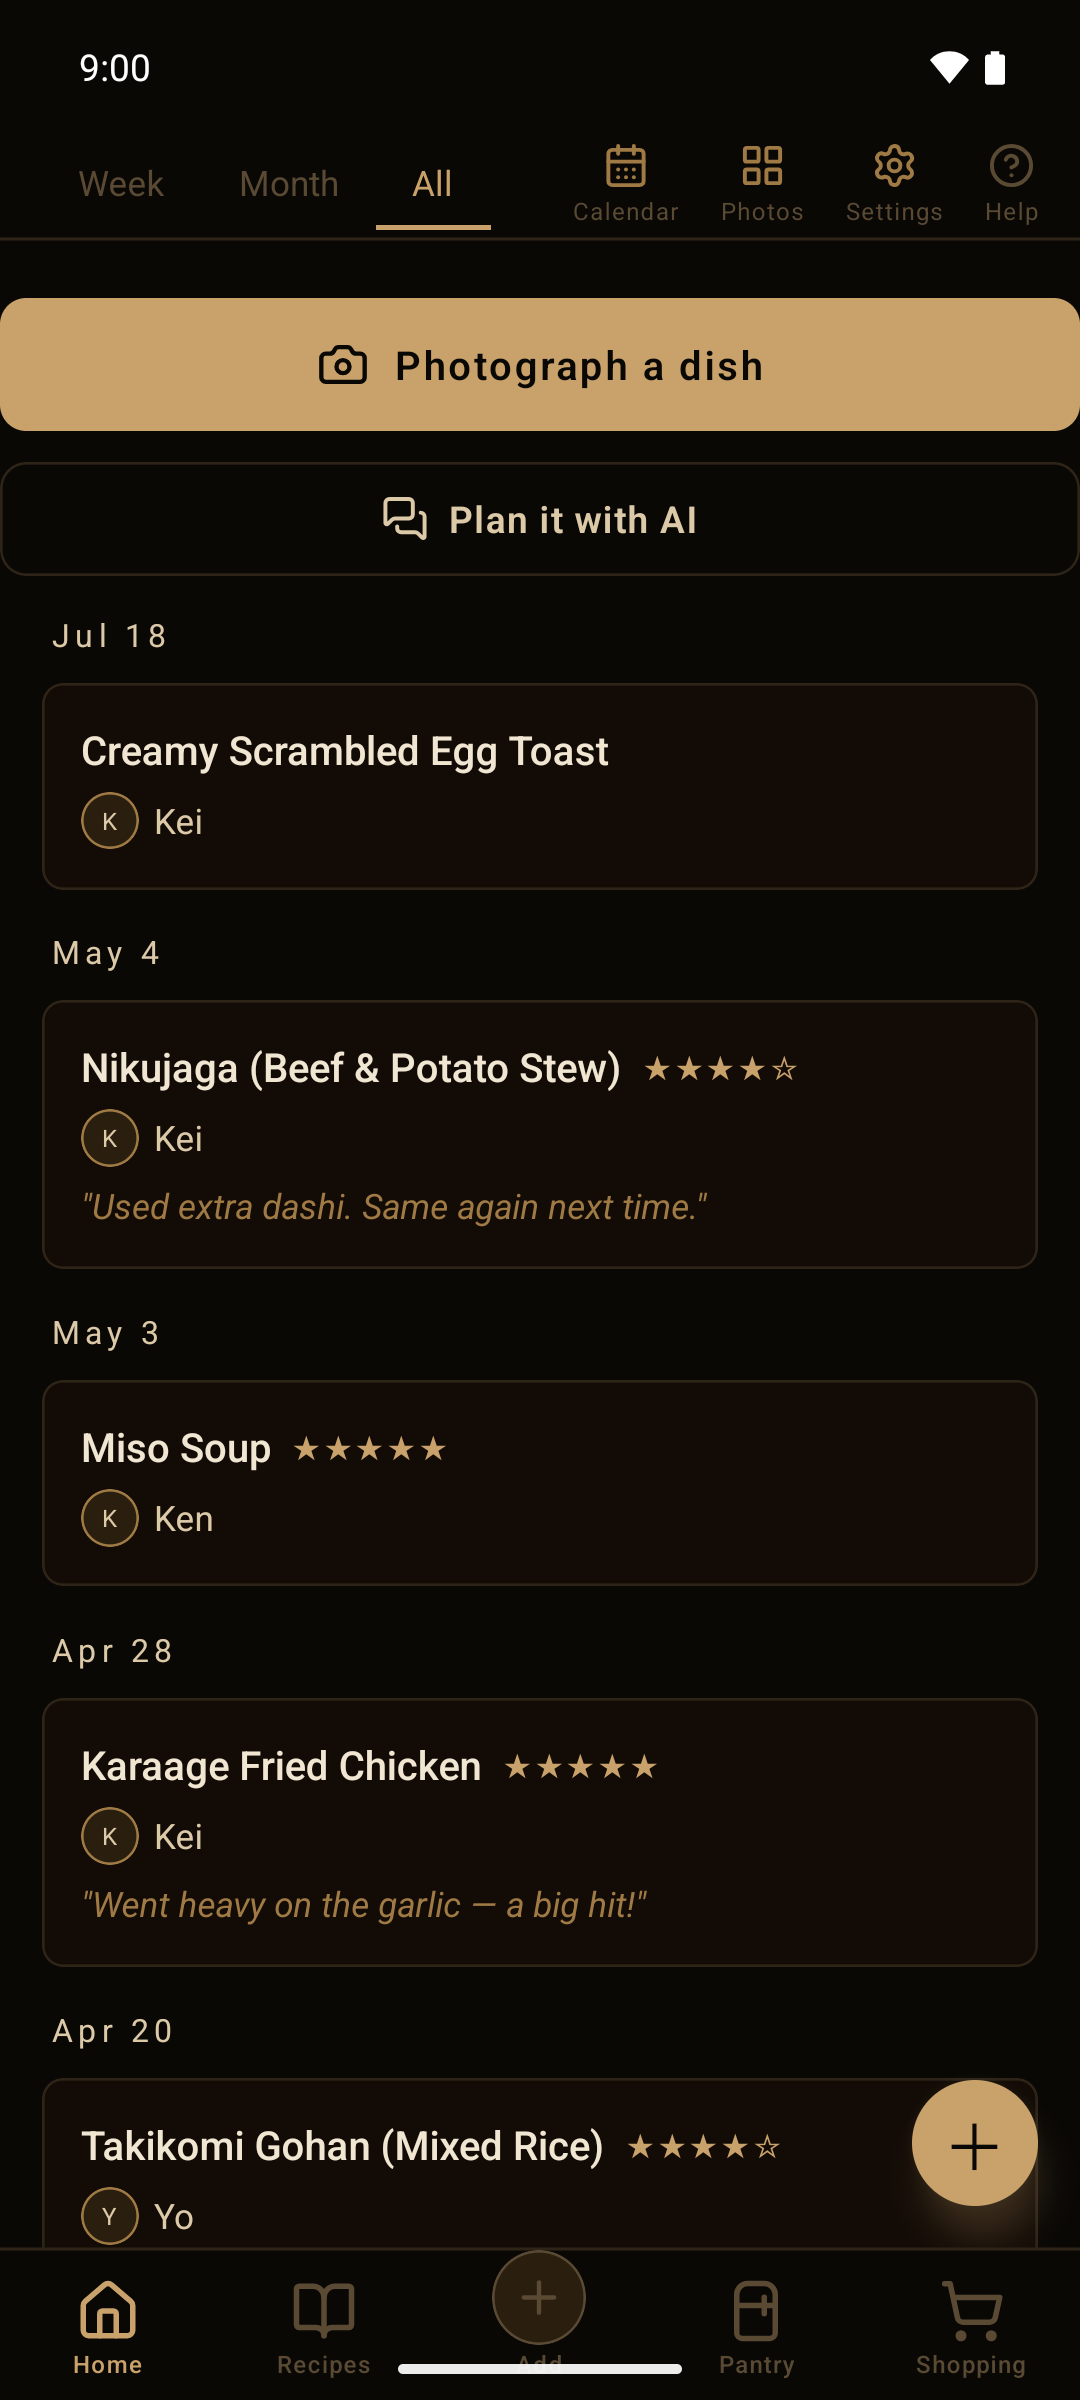
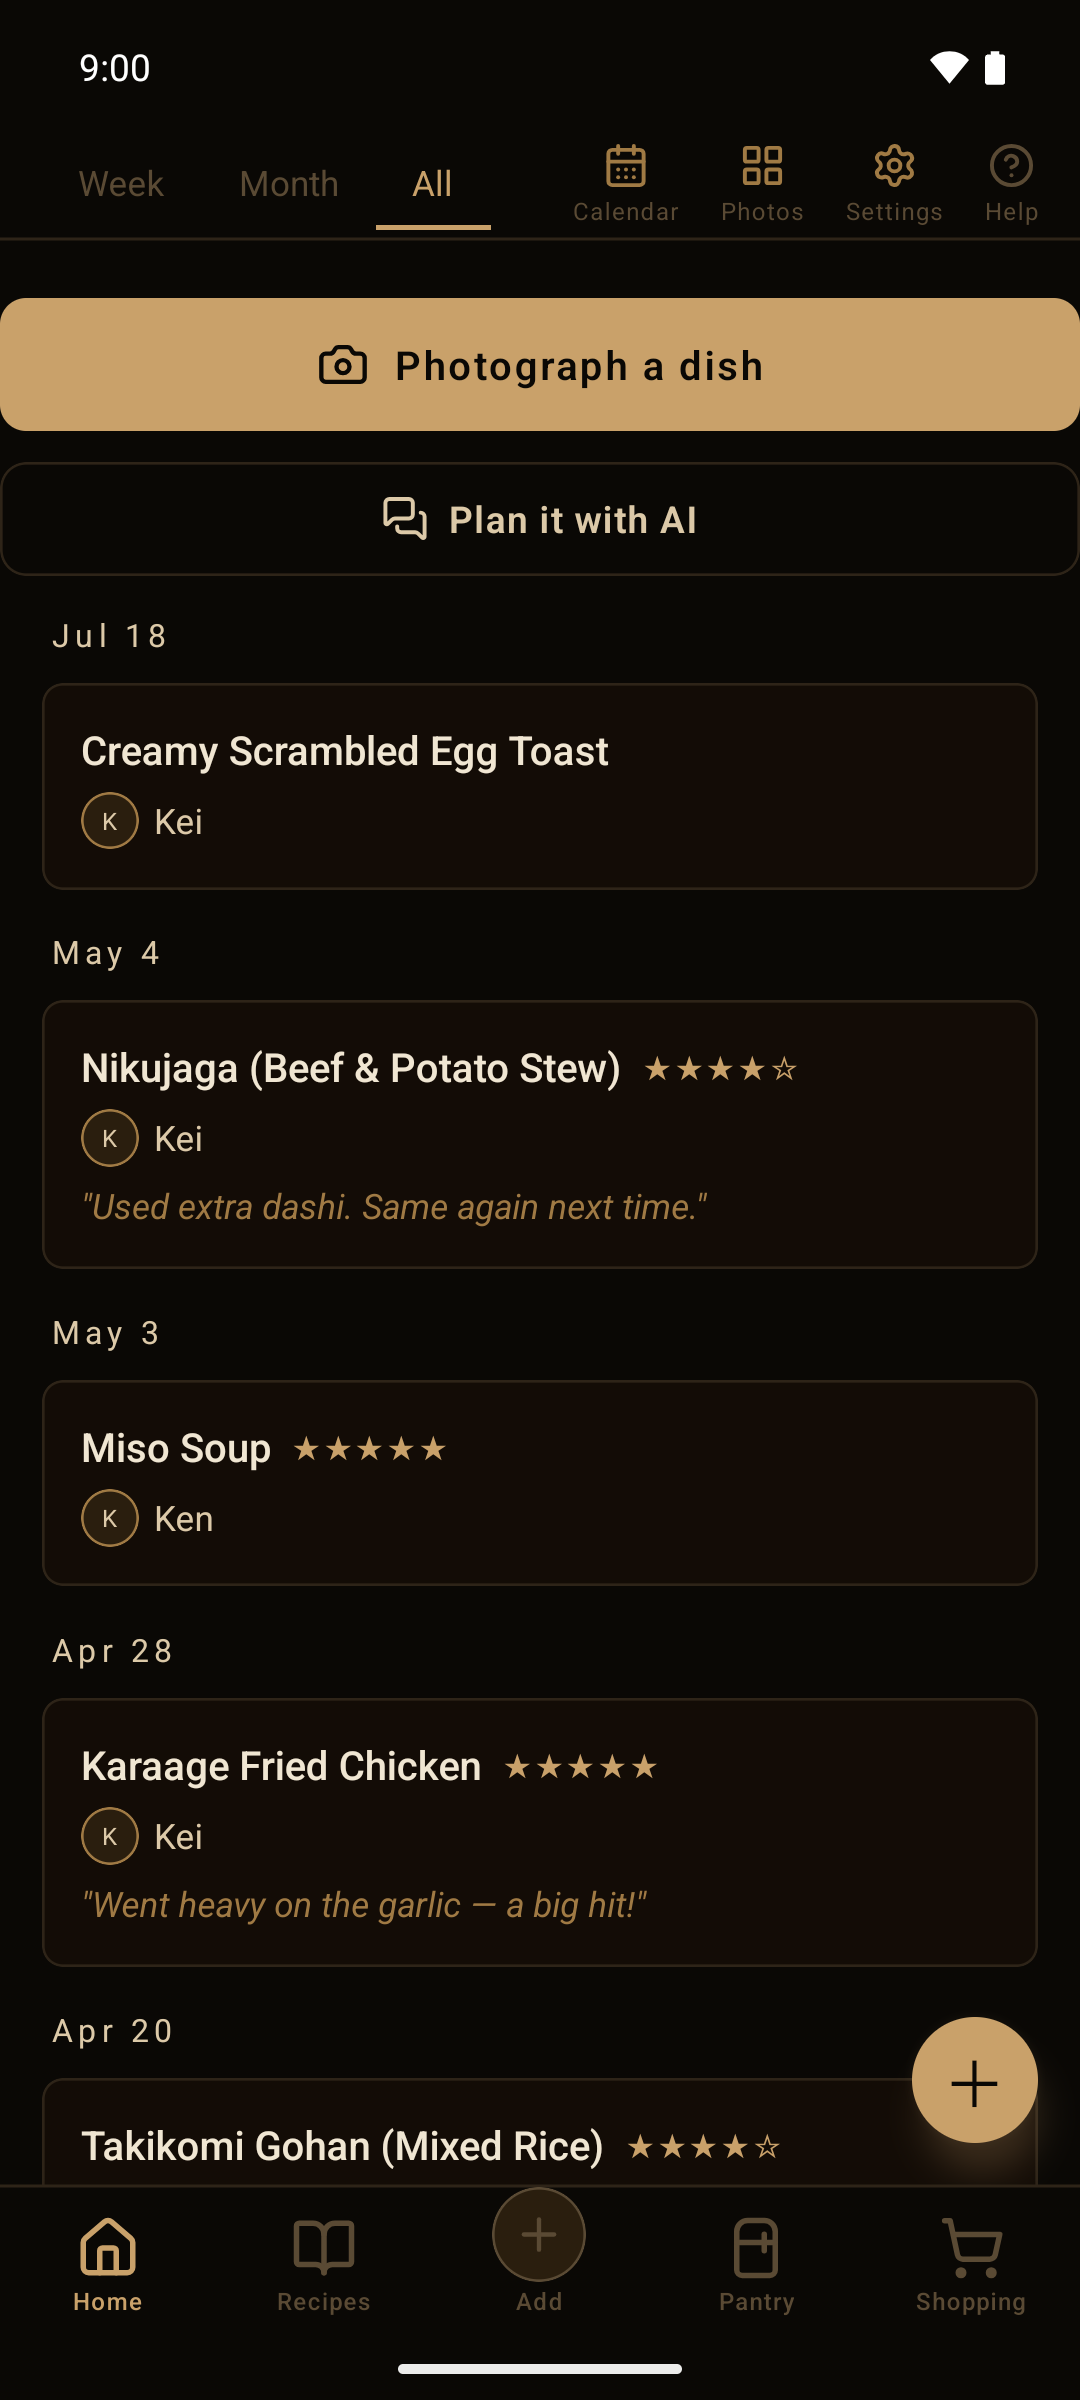
chore(store): 英語スクショ 6 枚をタブバー修正後（1.12.2）で撮り直す
1.12.1 まではタブバーが下の safe-area を確保しておらず、公開中の掲載画像に
**ジェスチャーバーの白い横棒が `Add` を横切り、`Recipes` / `Pantry` / `Shopping` の
ディセンダが切れている状態**が写っていた（PR #244 で修正）。

撮り直したのは**タブバーが写る 6 枚**（`01` `02` `03` `04` `06` `10`）。
`07` は `FULLSCREEN_CHILD_ROUTES` で撮影画面のタブバーを隠すため、`08` はモーダルのため、
どちらもタブバーが無いので 1.12.1 のまま維持した。

エミュレータ `daidoko_e2e_fresh_api36`（1080x2400・wipe 済み・versionCode 10032）。
全 8 枚が 1080x2400 で揃っていることを `--dry-run` で確認済み。

**踏んだこと:** wipe 直後は既定の待ち 7 秒では足りず、`01` `02` がローディングの
スピナーのまま撮れていた。`--wait 18000` で通った。**PNG のサイズが見分けになる**
（中身のある `01` は 191KB、スピナーだけだと 21KB）。README に残した。

日本語版の README には、撮り直すときに要ること（どの画面がどの料理か・実データの作り方・
エミュレータだと解像度が変わるので 8 枚とも撮り直しになること）を書いた。

diff --git a/docs/store/google-play/phone-screenshots-en/README.md b/docs/store/google-play/phone-screenshots-en/README.md
@@ -15,11 +15,25 @@ node scripts/release/capture-store-screenshots.mjs \
   一度きりなので、**データを消した端末に入れてから**撮ること（`-wipe-data` でエミュを起動し直す）
 - 反映: `node scripts/release/update-play-screenshots.mjs --lang en-US`（下表の順に upload）
 
-## 現在の中身（2026-08-27 更新・1.12.1 / versionCode 10031）
+## 現在の中身（2026-08-28 更新・1.12.2 / versionCode 10032）
 
-**エミュレータ `daidoko_e2e_fresh_api36`（1080x2400）で全 8 枚を撮り直した。**
-旧版は #217 / #219 より前の **4 タブ UI**（ホーム/レシピ/追加/設定）で、
-買物・在庫のタブが無かった。
+**エミュレータ `daidoko_e2e_fresh_api36`（1080x2400）で撮っている。**
+
+**2026-08-28 に 6 枚（`01` `02` `03` `04` `06` `10`）を 1.12.2 で撮り直した。**
+1.12.1 まではタブバーが下の safe-area を確保しておらず、**ジェスチャーバーの白い横棒が
+`Add` を横切り、`Recipes` / `Pantry` / `Shopping` のディセンダが切れていた**（PR #244）。
+
+**撮り直しが要るのはタブバーが写る画面だけ**なので `07` と `08` は 1.12.1 のまま維持した:
+
+- `07-photo-to-recipe`（`recipes/import-photo`）は `FULLSCREEN_CHILD_ROUTES` に入っていて
+  **撮影画面ではタブバーを隠す**
+- `08` はモーダルなのでタブバーが無い
+
+**どの枚がタブバーを持つかは、下端 200px を切り出して並べると一目で分かる。**
+1 枚ずつ開いて確かめると見落とす。
+
+2026-08-27 に全 8 枚を撮り直した時点の記録: 旧版は #217 / #219 より前の
+**4 タブ UI**（ホーム/レシピ/追加/設定）で、買物・在庫のタブが無かった。
 
 - 全画面が英語シード（`seed.en.ts`）。**単位もヤード・ポンド法に換算されている**
   （0.38 oz / 1 tbsp / 4 cups）
@@ -32,6 +46,10 @@ node scripts/release/capture-store-screenshots.mjs \
 
 ### 撮るときに踏んだこと
 
+- **wipe 直後は既定の待ち 7 秒では足りない。** 初回起動はシードを流すので、`01` `02` が
+  **ローディングのスピナーのまま撮れた**（2026-08-28）。`--wait 18000` で撮り直したら通った。
+  **PNG のファイルサイズが見分けになる** — 中身のある `01` は 191KB、`02` は 371KB なのに対し、
+  スピナーだけだと 21KB / 20KB しか無い。撮ったら必ずサイズを見る
 - **`adb push` が無言で失敗する**（`docs/開発ハーネス.md` §4）。base64 で流し込む
 - `MEDIA_SCANNER_SCAN_FILE` のブロードキャストは効かない。
   `content call --uri content://media/external --method scan_volume --arg external_primary`
